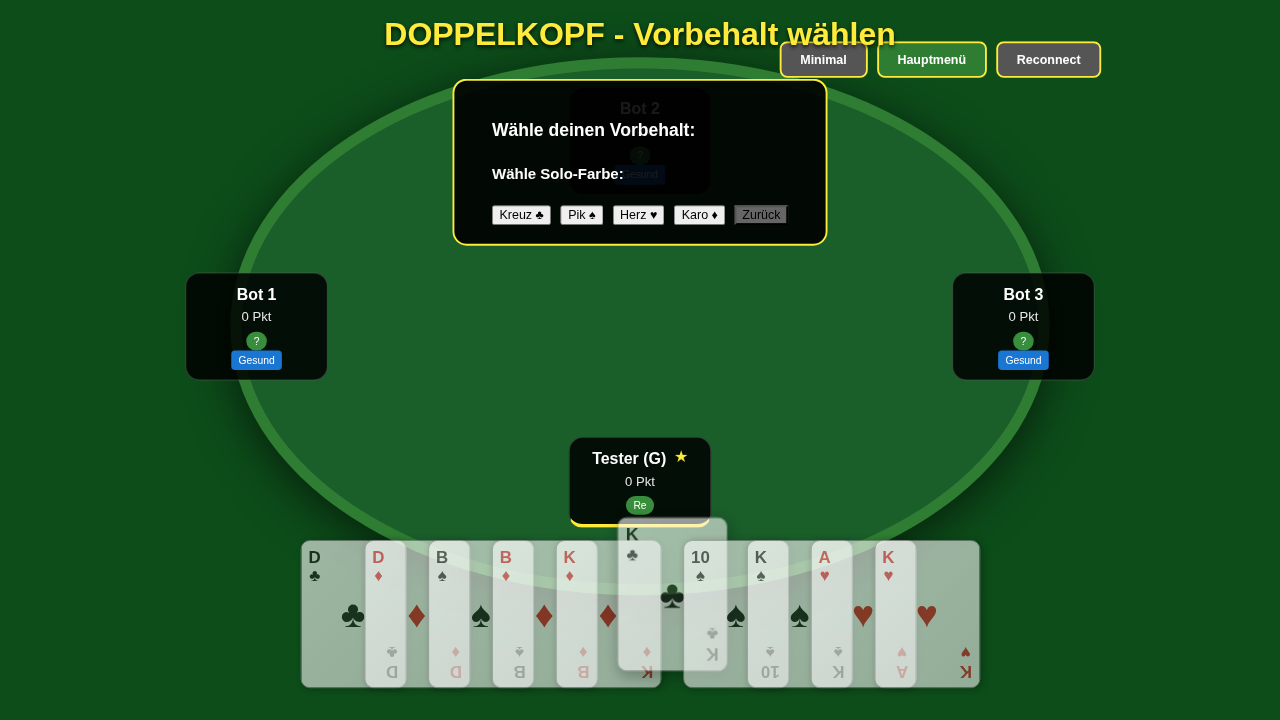
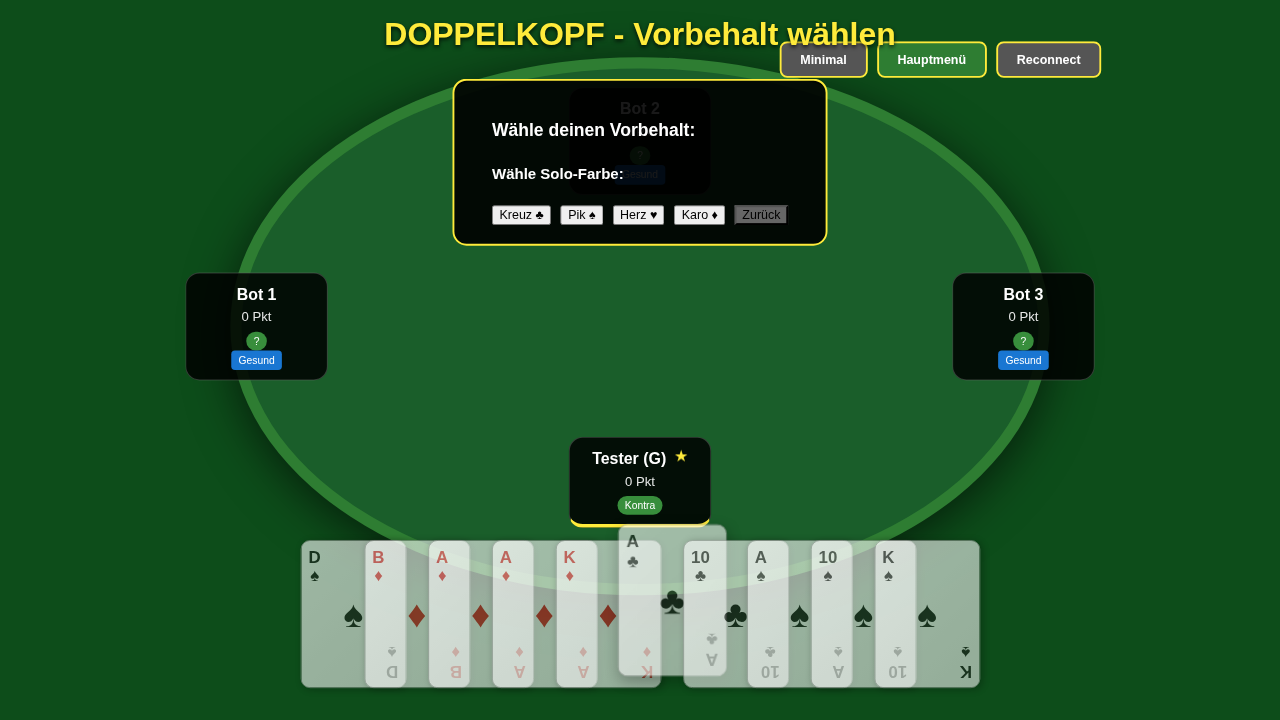
feat: Implement Damen-Bubensolo game type mechanics
- Add `DamenBubensolo` to `GameType` enum and `Bid` type
- Update `GameTable` UI to include a Damen-Buben-Solo bidding button
- Configure `isTrump` in `cardUtils.ts` to recognize both Queens and Jacks as trumps in this game type
- Allow bots to recognize and bid `DamenBubensolo` in `Bot.ts` based on sufficient Queens and Jacks
- Calculate tournament points for `DamenBubensolo` as a standard Solo game in `GameEngine.ts`
- Fix frontend and backend tests to assert proper ranking and bidding mechanics

diff --git a/server/src/logic/GameEngine.ts b/server/src/logic/GameEngine.ts
@@ -49,7 +49,7 @@ export class GameEngine {
   }
 
   static determineStartingPlayerIndex(gameType: GameType, dealerIndex: number, soloPlayerId: string | null, players: Player[]): number {
-    if ([GameType.DamenSolo, GameType.BubenSolo, GameType.FarbenSolo, GameType.Fleischlos].includes(gameType)) {
+    if ([GameType.DamenSolo, GameType.BubenSolo, GameType.DamenBubensolo, GameType.FarbenSolo, GameType.Fleischlos].includes(gameType)) {
       if (soloPlayerId) {
         const index = players.findIndex(p => p.id === soloPlayerId);
         if (index !== -1) {
@@ -64,6 +64,7 @@ export class GameEngine {
   static determineFinalGameType(bids: Record<string, string>, playerIdsInOrder: string[]): { gameType: GameType, trumpSuit: Suit | null, soloPlayerId: string | null } {
     const priorityOrder = [
       GameType.FarbenSolo,
+      GameType.DamenBubensolo,
       GameType.DamenSolo,
       GameType.BubenSolo,
       GameType.Fleischlos,
@@ -81,6 +82,8 @@ export class GameEngine {
             if (parts.length > 1) trump = parts[1] as Suit;
         } else if (rawBid === 'Fleischlos') {
             type = GameType.Fleischlos;
+        } else if (rawBid === 'DamenBubensolo') {
+            type = GameType.DamenBubensolo;
         } else if (rawBid === 'DamenSolo') {
             type = GameType.DamenSolo;
         } else if (rawBid === 'BubenSolo') {
@@ -374,7 +377,7 @@ export class GameEngine {
         netScore = kontraGamePoints - reGamePoints;
     }
 
-    const isSolo = [GameType.DamenSolo, GameType.BubenSolo, GameType.FarbenSolo, GameType.Fleischlos].includes(state.gameType);
+    const isSolo = [GameType.DamenSolo, GameType.BubenSolo, GameType.DamenBubensolo, GameType.FarbenSolo, GameType.Fleischlos].includes(state.gameType);
 
     // Update Tournament Points
     newState.players = newState.players.map(p => {

diff --git a/src/logic/__tests__/cardUtils.test.ts b/src/logic/__tests__/cardUtils.test.ts
@@ -50,6 +50,15 @@ describe('cardUtils', () => {
       expect(isTrump(createCard(Suit.Kreuz, CardValue.Koenig), GameType.Normal, null, settings)).toBe(false);
     });
 
+    it('should identify trumps in DamenBubensolo', () => {
+      const settings = { ...defaultSettings };
+      // Queens and Jacks are trump
+      expect(isTrump(createCard(Suit.Herz, CardValue.Dame), GameType.DamenBubensolo, null, settings)).toBe(true);
+      expect(isTrump(createCard(Suit.Kreuz, CardValue.Bube), GameType.DamenBubensolo, null, settings)).toBe(true);
+      expect(isTrump(createCard(Suit.Karo, CardValue.Ass), GameType.DamenBubensolo, null, settings)).toBe(false);
+      expect(isTrump(createCard(Suit.Herz, CardValue.Zehn), GameType.DamenBubensolo, null, settings)).toBe(false);
+    });
+
     it('should handle "Dullen als höchste" setting', () => {
       const settingsWithDulle = { ...defaultSettings, dullenAlsHoechste: true };
       const settingsWithoutDulle = { ...defaultSettings, dullenAlsHoechste: false };

diff --git a/server/src/logic/cardUtils.ts b/server/src/logic/cardUtils.ts
@@ -11,7 +11,7 @@ export const CARD_POINTS: Record<CardValue, number> = {
 };
 
 const NORMAL_GAME_TYPES = [GameType.Normal, GameType.Hochzeit];
-const SOLO_GAME_TYPES = [GameType.DamenSolo, GameType.BubenSolo, GameType.FarbenSolo];
+const SOLO_GAME_TYPES = [GameType.DamenSolo, GameType.BubenSolo, GameType.DamenBubensolo, GameType.FarbenSolo];
 
 export const createDeck = (mitNeunen: boolean): Card[] => {
   const deck: Card[] = [];
@@ -75,6 +75,9 @@ export const isTrump = (card: Card, gameType: GameType, trumpSuit: Suit | null, 
 
   if (gameType === GameType.DamenSolo) return card.value === CardValue.Dame;
   if (gameType === GameType.BubenSolo) return card.value === CardValue.Bube;
+  if (gameType === GameType.DamenBubensolo) {
+      return card.value === CardValue.Dame || card.value === CardValue.Bube;
+  }
 
   if (gameType === GameType.FarbenSolo) {
     return card.suit === trumpSuit || card.value === CardValue.Dame || card.value === CardValue.Bube;

diff --git a/src/logic/cardUtils.ts b/src/logic/cardUtils.ts
@@ -10,7 +10,7 @@ export const CARD_POINTS: Record<CardValue, number> = {
 };
 
 const NORMAL_GAME_TYPES = [GameType.Normal, GameType.Hochzeit];
-const SOLO_GAME_TYPES = [GameType.DamenSolo, GameType.BubenSolo, GameType.FarbenSolo];
+const SOLO_GAME_TYPES = [GameType.DamenSolo, GameType.BubenSolo, GameType.DamenBubensolo, GameType.FarbenSolo];
 
 export const createDeck = (mitNeunen: boolean): Card[] => {
   const deck: Card[] = [];
@@ -74,6 +74,9 @@ export const isTrump = (card: Card, gameType: GameType, trumpSuit: Suit | null, 
 
   if (gameType === GameType.DamenSolo) return card.value === CardValue.Dame;
   if (gameType === GameType.BubenSolo) return card.value === CardValue.Bube;
+  if (gameType === GameType.DamenBubensolo) {
+      return card.value === CardValue.Dame || card.value === CardValue.Bube;
+  }
 
   if (gameType === GameType.FarbenSolo) {
     return card.suit === trumpSuit || card.value === CardValue.Dame || card.value === CardValue.Bube;

diff --git a/src/components/GameTable.tsx b/src/components/GameTable.tsx
@@ -158,6 +158,7 @@ export const GameTable: React.FC = () => {
                     {hasBothReQueens && <button onClick={() => submitBid(humanPlayer.id, 'Hochzeit')}>Hochzeit</button>}
                     <button onClick={() => submitBid(humanPlayer.id, 'DamenSolo')}>Damen-Solo</button>
                     <button onClick={() => submitBid(humanPlayer.id, 'BubenSolo')}>Buben-Solo</button>
+                    <button onClick={() => submitBid(humanPlayer.id, 'DamenBubensolo')}>Damen-Buben-Solo</button>
                     <button onClick={handleFarbenSoloClick}>Farben-Solo</button>
                     <button onClick={() => submitBid(humanPlayer.id, 'Fleischlos')}>Fleischlos</button>
                   </div>

diff --git a/server/src/logic/types.ts b/server/src/logic/types.ts
@@ -29,6 +29,7 @@ export enum GameType {
   Fleischlos = 'Fleischlos',
   BubenSolo = 'BubenSolo',
   DamenSolo = 'DamenSolo',
+  DamenBubensolo = 'DamenBubensolo',
   FarbenSolo = 'FarbenSolo',
 }
 
@@ -57,7 +58,7 @@ export interface GameSettings {
   soloPrioritaet: boolean;
 }
 
-export type Bid = 'Gesund' | 'Hochzeit' | 'DamenSolo' | 'BubenSolo' | 'FarbenSolo' | 'Fleischlos';
+export type Bid = 'Gesund' | 'Hochzeit' | 'DamenSolo' | 'BubenSolo' | 'DamenBubensolo' | 'FarbenSolo' | 'Fleischlos';
 
 export interface ScoringResult {
   winner: 'Re' | 'Kontra' | null;

diff --git a/src/logic/types.ts b/src/logic/types.ts
@@ -29,6 +29,7 @@ export enum GameType {
   Fleischlos = 'Fleischlos',
   BubenSolo = 'BubenSolo',
   DamenSolo = 'DamenSolo',
+  DamenBubensolo = 'DamenBubensolo',
   FarbenSolo = 'FarbenSolo',
 }
 
@@ -57,7 +58,7 @@ export interface GameSettings {
   soloPrioritaet: boolean;
 }
 
-export type Bid = 'Gesund' | 'Hochzeit' | 'DamenSolo' | 'BubenSolo' | 'FarbenSolo' | 'Fleischlos';
+export type Bid = 'Gesund' | 'Hochzeit' | 'DamenSolo' | 'BubenSolo' | 'DamenBubensolo' | 'FarbenSolo' | 'Fleischlos';
 
 export interface ScoringResult {
   winner: 'Re' | 'Kontra' | null;

diff --git a/server/src/logic/Bot.ts b/server/src/logic/Bot.ts
@@ -26,6 +26,11 @@ export class Bot {
       return 'BubenSolo';
     }
 
+    const damenBubenCount = damenCount + bubenCount;
+    if (damenBubenCount >= 10 && damenCount >= 4) {
+      return 'DamenBubensolo';
+    }
+
     // FarbenSolo check: if we have strong trumps of a specific color, but that requires setting trumpSuit which isn't part of Bid.
     // For now we keep it simple.
 
